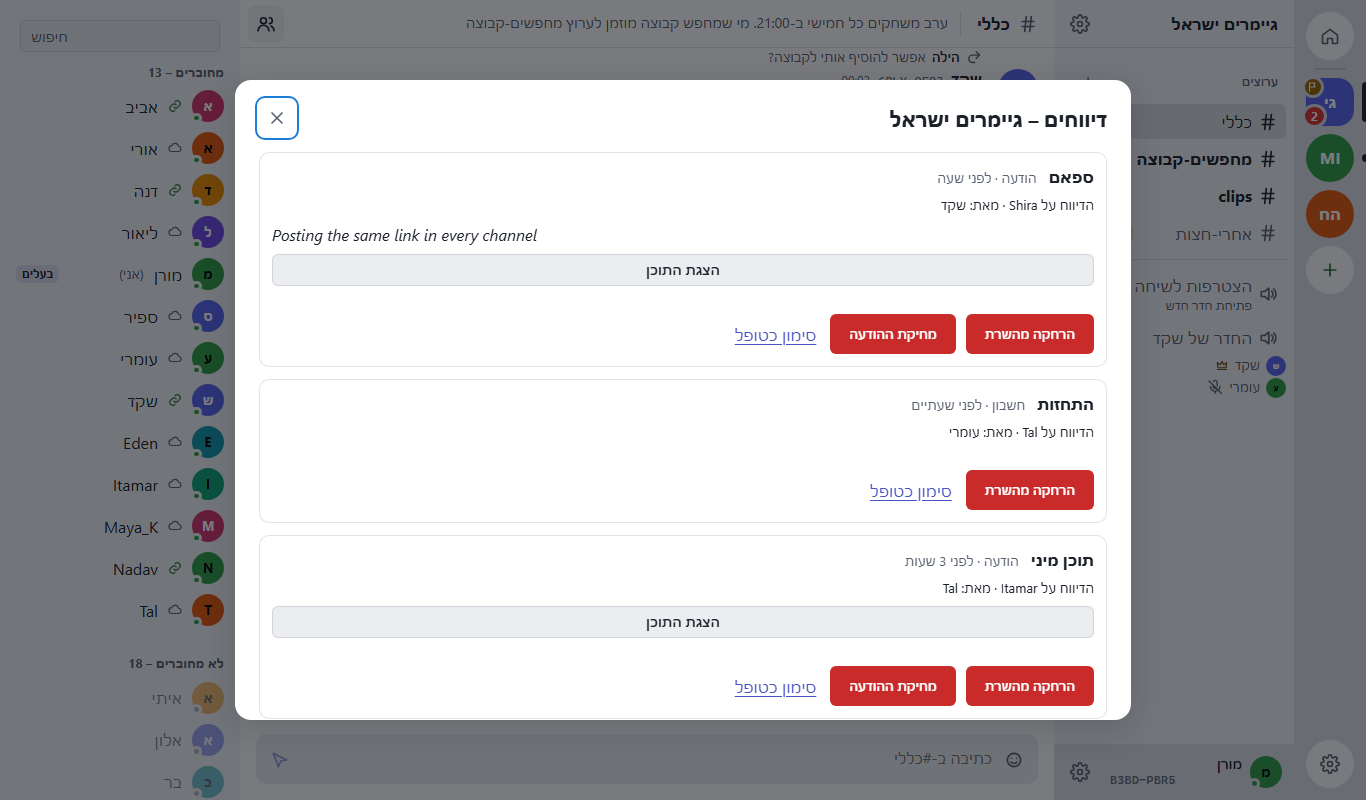
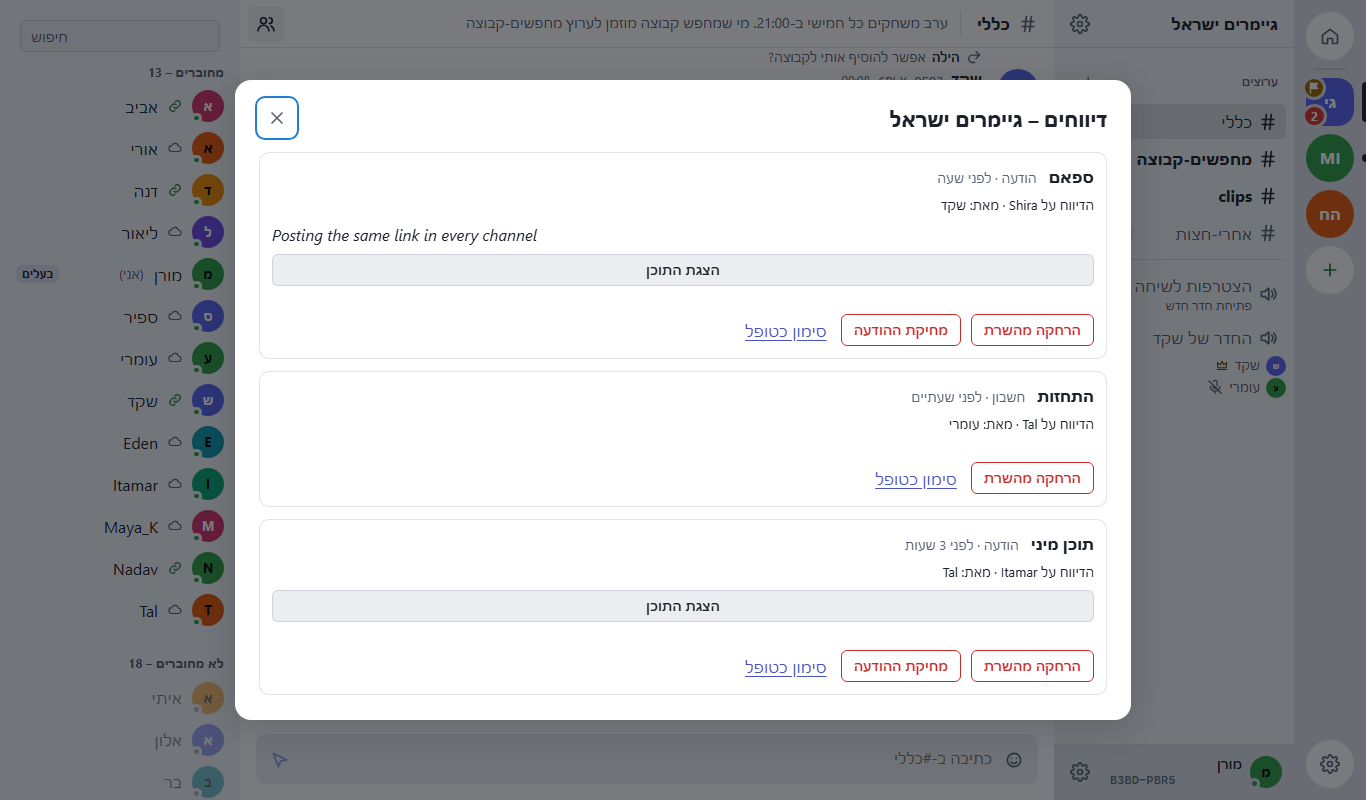
fix(report): outlined actions on report cards, delete asks first, a solid flag (UX on #605)
- The report card's "Remove from server" and "Delete the message" are
  outlined red; the filled red is inside the confirmations.
- "Delete the message" now asks first (the chat's delete wording), like
  removing a member does.
- The rail flag is a simpler solid flag at 14px (the outline read like a P).
- 600-604 re-rendered.

diff --git a/ui/src/screens/shell/Reports.tsx b/ui/src/screens/shell/Reports.tsx
@@ -75,6 +75,8 @@ function ReportItem({ report: r, server, onChanged }: { report: ReportSummary; s
   const [evidence, setEvidence] = useState<Evidence | null>(null);
   const [kick, setKick] = useState<Member | null>(null);
   const [deleted, setDeleted] = useState(false);
+  // UX on #605: deleting the message asks first, like removing a member.
+  const [confirmDelete, setConfirmDelete] = useState(false);
 
   const fetchEvidence = async () => {
     if (r.evidenceWithheld) return setEvidence({ state: 'withheld' });
@@ -99,28 +101,14 @@ function ReportItem({ report: r, server, onChanged }: { report: ReportSummary; s
 
   const deleteMessage =
     r.target.kind === 'message' && !deleted ? (
-      <button
-        key="delete"
-        type="button"
-        className="danger small"
-        onClick={async () => {
-          if (r.target.kind !== 'message') return;
-          try {
-            await core.deleteMessage(r.target.messageId);
-            setDeleted(true);
-            store.showFlash('reports.deleted');
-          } catch {
-            store.showFlash('error.generic');
-          }
-        }}
-      >
+      <button key="delete" type="button" className="secondary small danger-outline" onClick={() => setConfirmDelete(true)}>
         <FormattedMessage id="reports.deleteMessage" />
       </button>
     ) : null;
   const reportedMember = byId.get(r.reportedId);
   const kickButton =
     reportedMember && !reportedMember.isOwner ? (
-      <button key="kick" type="button" className="danger small" onClick={() => setKick(reportedMember)}>
+      <button key="kick" type="button" className="secondary small danger-outline" onClick={() => setKick(reportedMember)}>
         <FormattedMessage id="profile.kick" />
       </button>
     ) : null;
@@ -220,6 +208,36 @@ function ReportItem({ report: r, server, onChanged }: { report: ReportSummary; s
           </button>
         )}
       </div>
+      {confirmDelete && r.target.kind === 'message' && (
+        <div className="confirm" role="alertdialog" aria-label={intl.formatMessage({ id: 'reports.deleteMessage' })}>
+          <p>
+            <FormattedMessage id="chat.deleteConfirm" />
+          </p>
+          <div className="actions">
+            <button
+              type="button"
+              className="danger small"
+              autoFocus
+              onClick={async () => {
+                setConfirmDelete(false);
+                if (r.target.kind !== 'message') return;
+                try {
+                  await core.deleteMessage(r.target.messageId);
+                  setDeleted(true);
+                  store.showFlash('reports.deleted');
+                } catch {
+                  store.showFlash('error.generic');
+                }
+              }}
+            >
+              <FormattedMessage id="reports.deleteMessage" />
+            </button>
+            <button type="button" className="secondary small" onClick={() => setConfirmDelete(false)}>
+              <FormattedMessage id="common.cancel" />
+            </button>
+          </div>
+        </div>
+      )}
       {kick && <ProfileCard member={kick} server={server} isMe={false} startKick onClose={() => setKick(null)} />}
     </li>
   );
@@ -241,8 +259,8 @@ export function ReportFlagIcon() {
       focusable="false"
       className="icon"
     >
-      <path d="M5 21V4" />
-      <path d="M5 4h11l-2 4 2 4H5" />
+      <path d="M6 21V3" />
+      <path d="M6 4h12l-3 4.5 3 4.5H6z" fill="currentColor" />
     </svg>
   );
 }

diff --git a/ui/src/test/report.test.tsx b/ui/src/test/report.test.tsx
@@ -482,3 +482,21 @@ describe('G-48 (TL on #531): admins, the notification click, no-recipient, ids',
     expect(cleanReportSummary({ ...summary(), id: 'a'.repeat(64) } as never)?.id).toBe('a'.repeat(64));
   });
 });
+
+describe('G-48 (UX on #605): deleting the reported message asks first', () => {
+  it('"Delete the message" opens a confirmation; only its button deletes', async () => {
+    let del: ReturnType<typeof vi.fn> | undefined;
+    await setup((core) => {
+      vi.spyOn(core, 'listReports').mockResolvedValue([summary({ reason: 'spam' })]);
+      del = vi.fn(async () => {});
+      core.deleteMessage = del as never;
+    });
+    const panel = await openReports();
+    const item = await within(panel).findByRole('listitem');
+    await click(within(item).getByRole('button', { name: 'Delete the message' }));
+    expect(del).not.toHaveBeenCalled();
+    const confirm = within(item).getByRole('alertdialog', { name: 'Delete the message' });
+    await click(within(confirm).getByRole('button', { name: 'Delete the message' }));
+    expect(del).toHaveBeenCalledWith('c-general#5');
+  });
+});

diff --git a/ui/src/screens/shell/report.css b/ui/src/screens/shell/report.css
@@ -100,8 +100,8 @@
   inset-inline-end: 0.5rem;
   display: grid;
   place-items: center;
-  width: 1.375rem;
-  height: 1.375rem;
+  width: 1.5rem;
+  height: 1.5rem;
   border-radius: 50%;
   border: 0.1875rem solid var(--bg-rail);
   /* Solid amber with ink (UX on #567): about 3.6:1 against the light rail, white ink 4.8:1. */
@@ -122,4 +122,17 @@
 }
 .settings-count {
   margin-inline-start: 0.5rem;
+}
+.rail-reports .icon {
+  width: 0.875rem;
+  height: 0.875rem;
+}
+/* UX on #605: the actions on a report card are outlined; the filled red is inside the confirmations. */
+.report-actions .secondary.danger-outline {
+  background: transparent;
+  color: var(--danger);
+  border: 1px solid var(--danger);
+}
+.report-actions .secondary.danger-outline:hover {
+  background: var(--danger-soft);
 }
